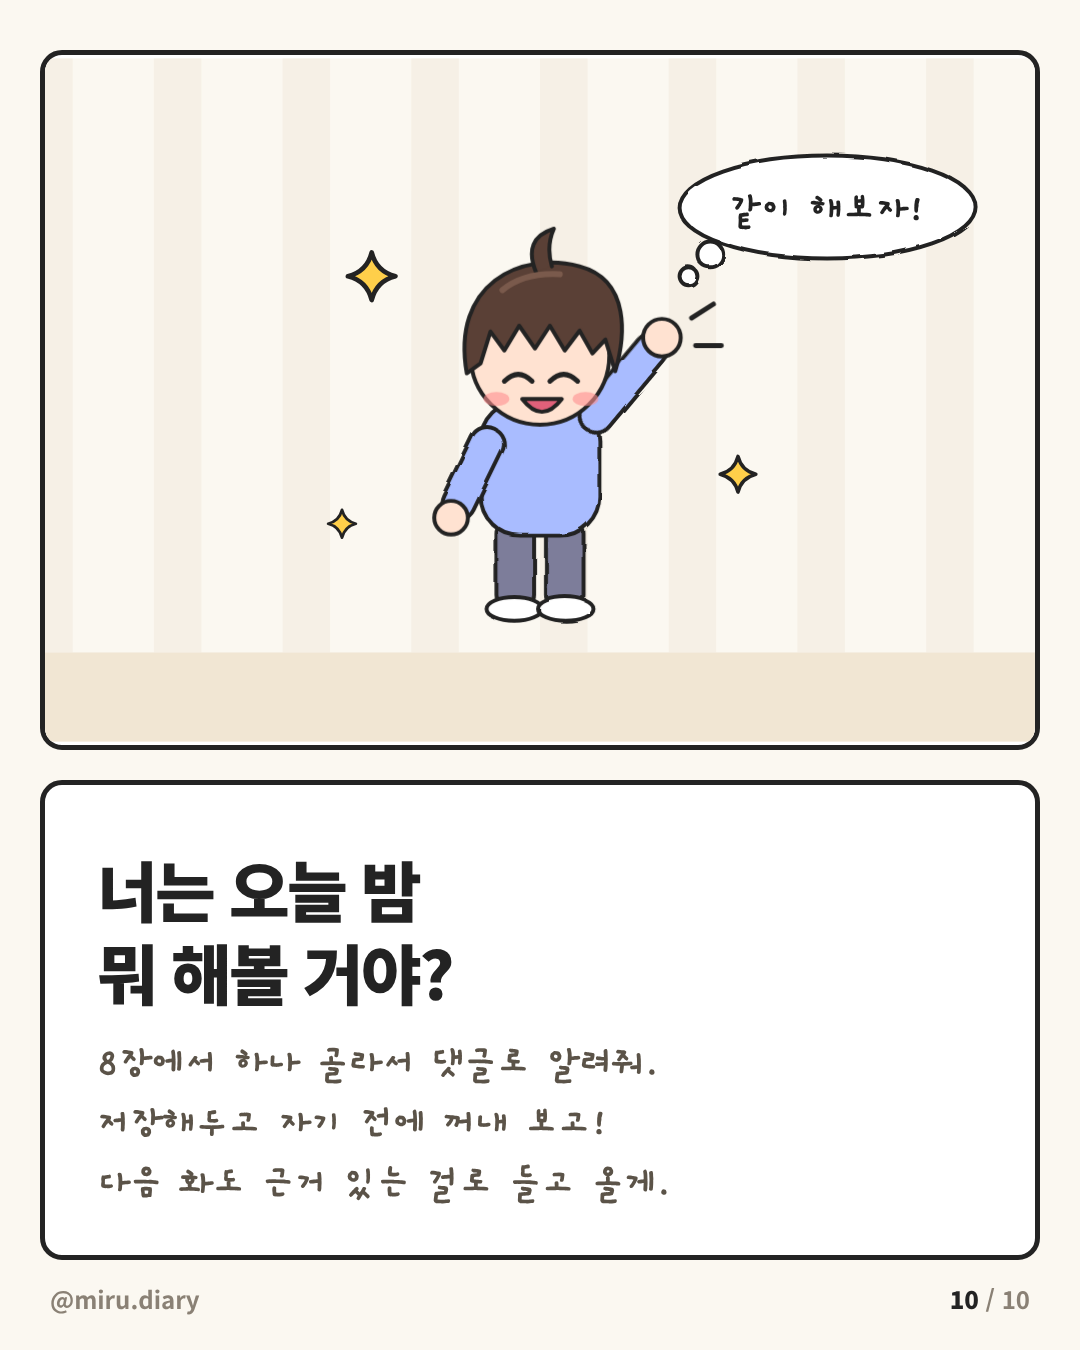
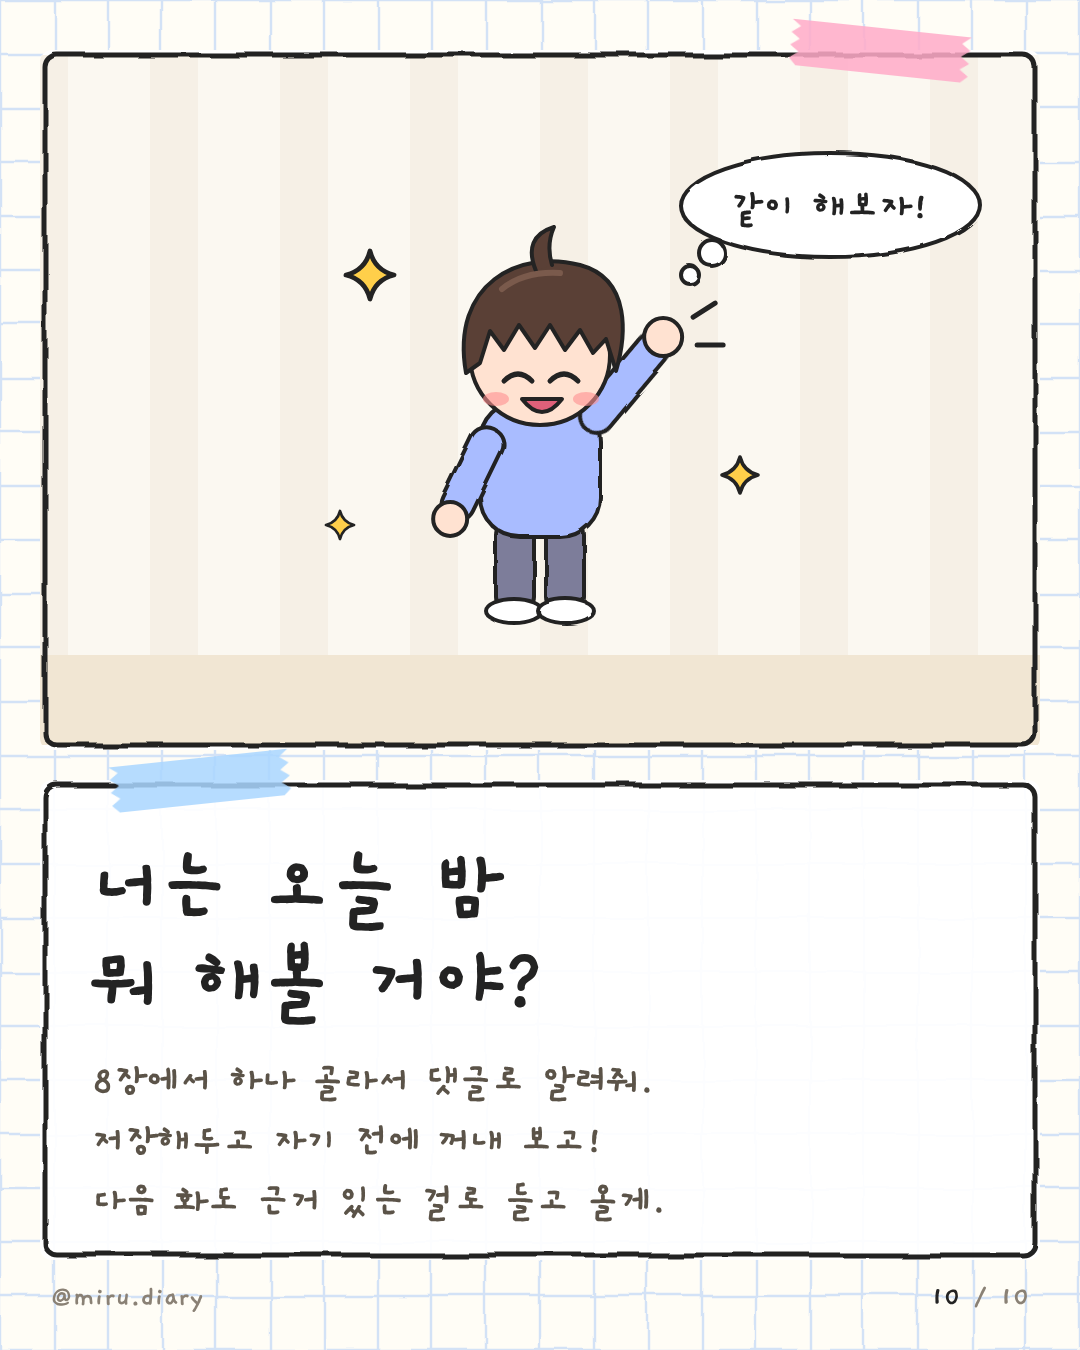
Apply hand-drawn diary theme to EP.1
Claude-Session: https://claude.ai/code/session_01YBPD5mubkv2zYvzfUqKigS

diff --git a/carousel/05-ep1/slides.html b/carousel/05-ep1/slides.html
@@ -40,7 +40,7 @@
   .vs { width: 100%; border-collapse: collapse; margin-top: 26px; }
   .vs th { padding: 6px 0 14px; border-bottom: 4px solid #232323; font-family: 'Gaegu'; font-weight: 700; font-size: 38px; }
   .vs th svg { display: block; margin: 0 auto 4px; width: 170px; height: 180px; }
-  .vs td { width: 50%; padding: 38px 10px; border-bottom: 2px dashed #c9c0b3; font-size: 38px; text-align: center; letter-spacing: -0.025em; line-height: 1.35; }
+  .vs td { width: 50%; padding: 28px 10px; border-bottom: 2px dashed #c9c0b3; font-size: 38px; text-align: center; letter-spacing: -0.025em; line-height: 1.35; }
   .vs td.lo { color: #9a9185; }
   .vs td.hi { font-weight: 700; }
   .lim { margin-top: 28px; display: grid; gap: 26px; }
@@ -48,6 +48,40 @@
   .lim p span { display: block; font-size: 26px; color: #8a8175; }
   .cta h3 { font-size: 66px; }
   .cta .lines { margin-top: 22px; font-family: 'Gaegu'; font-weight: 700; font-size: 40px; line-height: 1.5; color: #5b5348; }
+
+  /* ===== 다이어리 손그림 테마 ===== */
+  .slide { background: #fffdf6 url(bg-grid.svg) 0 0 / 1080px 1350px no-repeat; }
+  .foot { font-family: 'Gaegu'; font-size: 30px; }
+  .panel, .card { border: none !important; border-radius: 12px !important; }
+  .panel { background: #fff; }
+  .card { background: rgba(255,255,255,.93); }
+  .stat { border: none !important; background: #fffbe9 !important; position: relative; }
+  .card h3 { font-family: 'Gaegu'; font-weight: 700; font-size: 76px; letter-spacing: -0.01em; line-height: 1.12; }
+  .card .row { font-family: 'Gaegu'; font-weight: 700; font-size: 42px; }
+  .card .row b { font-size: 42px; }
+  .card .src { font-family: 'Gaegu'; font-weight: 700; font-size: 26px; }
+  .stat .n { font-family: 'Gaegu'; font-weight: 700; font-size: 88px; }
+  .stat .d { font-family: 'Gaegu'; font-weight: 700; font-size: 42px; }
+  .stat .d small { font-size: 30px; font-weight: 700; }
+  .vs th { border-bottom: 4px dashed #232323; font-size: 42px; }
+  .vs td { font-family: 'Gaegu'; font-weight: 700; font-size: 46px; }
+  .lim p { font-family: 'Gaegu'; font-weight: 700; font-size: 44px; border-left: none; padding-left: 0; line-height: 1.35; }
+  .lim p span { font-size: 33px; margin-top: 2px; }
+  .cta h3 { font-size: 84px; }
+  .chip { background: #ffd666; color: #232323; border-radius: 4px; transform: rotate(-2deg); font-size: 34px; padding: 2px 20px; }
+  .tape { position: absolute; width: 180px; height: 46px; z-index: 5; opacity: .85;
+    clip-path: polygon(0 0, 5% 14%, 0 28%, 5% 42%, 0 56%, 5% 70%, 0 84%, 4% 100%, 96% 100%, 100% 86%, 95% 72%, 100% 58%, 95% 44%, 100% 30%, 95% 16%, 100% 0); }
+  .tape.y { background: #ffd666; } .tape.p { background: #ffaac8; } .tape.b { background: #a9d6ff; } .tape.g { background: #b6e8a6; }
+  .tag .ep { font-family: 'Gaegu'; font-weight: 700; font-size: 32px; padding: 0 18px; border-radius: 6px; transform: rotate(-3deg); }
+  .tag { font-size: 38px; top: 64px; }
+  .cover-title { font-family: 'Gaegu'; font-weight: 700; font-size: 132px; line-height: 1.02; letter-spacing: -0.02em; top: 118px; z-index: 1; }
+  .hl { background: none; position: relative; padding: 0; }
+  .hl::after { content: ""; position: absolute; left: -8px; right: -8px; bottom: 14px; height: 44px; background: #ffd666; opacity: .85; z-index: -1; border-radius: 6px; transform: rotate(-1.5deg); }
+  .cover-sub { font-size: 44px; top: 412px; }
+  .polaroid { position: absolute; left: 80px; top: 530px; width: 920px; background: #fff; padding: 22px 22px 92px; transform: rotate(-2deg); }
+  .polaroid img { display: block; width: 100%; }
+  .polaroid .cap { position: absolute; left: 0; right: 0; bottom: 24px; text-align: center; font-family: 'Gaegu'; font-weight: 700; font-size: 44px; }
+  .doodle { position: absolute; pointer-events: none; }
 </style>
 </head>
 <body>
@@ -57,7 +91,11 @@
   <div class="tag"><span class="ep">EP.1</span><span>미루의 갓생일기</span></div>
   <div class="cover-title">갓생은<br><span class="hl">전날 밤</span>에 정해진다</div>
   <div class="cover-sub">연구로 확인된 것만, 만화로 알려줄게</div>
-  <div class="cover-art"><img src="../styles/night-doodle.png"></div>
+  <div class="polaroid"><img src="../styles/night-doodle.png"><div class="cap">새벽 1:47, 오늘도…</div></div>
+  <div class="tape y" style="left:110px; top:512px; transform:rotate(-14deg);"></div>
+  <div class="tape p" style="left:820px; top:520px; transform:rotate(11deg);"></div>
+  <svg class="doodle" style="left:430px; top:96px;" width="160" height="160" viewBox="0 0 160 160"><g fill="none" stroke="#232323" stroke-width="5" stroke-linecap="round" stroke-linejoin="round"><path d="M80 20 l14 36 l38 2 l-30 24 l10 38 l-32 -22 l-32 22 l10 -38 l-30 -24 l38 -2z" fill="#ffd666"/></g></svg>
+  <svg class="doodle" style="left:740px; top:400px;" width="200" height="120" viewBox="0 0 200 120"><path d="M10 20 q90 -10 150 60 M160 80 l-30 -4 M160 80 l-2 -30" fill="none" stroke="#ff6b6b" stroke-width="5" stroke-linecap="round"/></svg>
   <div class="foot"><span>@miru.diary</span><span><b>1</b> / 10</span></div>
 </section>
 
@@ -540,6 +578,28 @@ const p10 = svgWrap('p10', 1000, 690, `${wall(1000,690,600)}
 `);
 
 for (const [id, svg] of Object.entries({p3a, p3b, p4a, p4b, p5a, p6, p7a, p7b, p9, p10})) document.getElementById(id).innerHTML = svg;
+/* ===== 손그림 테두리 + 테이프 ===== */
+(function () {
+  document.querySelectorAll('.panel, .card, .polaroid, .stat').forEach((el, i) => {
+    const w = el.offsetWidth, h = el.offsetHeight, sw = el.classList.contains('stat') ? 4 : 5;
+    el.style.position = el.style.position || (getComputedStyle(el).position === 'static' ? 'relative' : '');
+    el.insertAdjacentHTML('beforeend', `<svg width="${w}" height="${h}" style="position:absolute;left:0;top:0;pointer-events:none;overflow:visible;z-index:4">
+      <defs><filter id="rf${i}" x="-5%" y="-5%" width="110%" height="110%"><feTurbulence type="fractalNoise" baseFrequency=".02" numOctaves="2" seed="${i + 3}"/><feDisplacementMap in="SourceGraphic" scale="7"/></filter></defs>
+      <rect x="5" y="5" width="${w - 10}" height="${h - 10}" rx="12" fill="none" stroke="#232323" stroke-width="${sw}" filter="url(#rf${i})"/></svg>`);
+  });
+  const colors = ['y', 'p', 'b', 'g'];
+  document.querySelectorAll('.slide').forEach((sl, si) => {
+    if (si === 0) return;
+    sl.querySelectorAll('.panel, .card').forEach((el, j) => {
+      const t = document.createElement('div');
+      t.className = 'tape ' + colors[(si + j) % 4];
+      const left = el.offsetLeft + (j % 2 ? 70 : el.offsetWidth - 250);
+      t.style.left = left + 'px'; t.style.top = (el.offsetTop - 22) + 'px';
+      t.style.transform = `rotate(${(j % 2 ? -1 : 1) * (6 + (si % 3) * 3)}deg)`;
+      sl.appendChild(t);
+    });
+  });
+})();
 </script>
 </body>
 </html>
